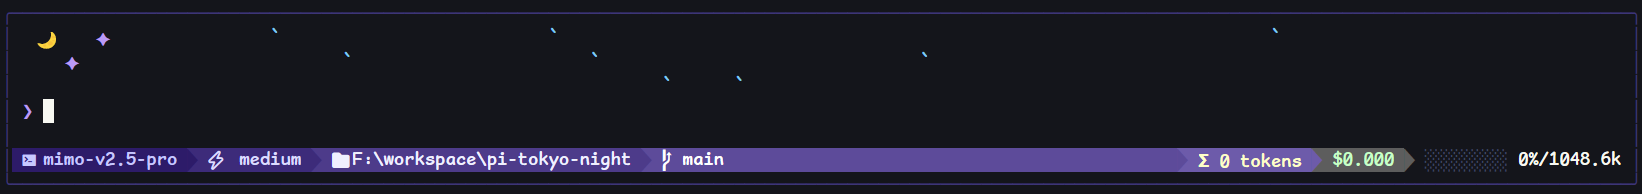
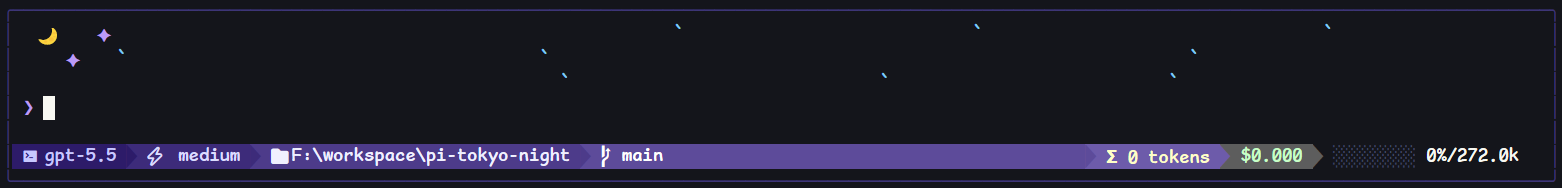
docs: update README for Codex Limit and theme config

diff --git a/README.md b/README.md
@@ -34,6 +34,8 @@ Activates automatically on install. Use `/tokyo-night` to control the extension:
 /tokyo-night          # toggle settings panel
 ```
 
+Codex usage is shown in the status bar only when `codexQuota` is enabled and the session is using a Codex-compatible model over `transport=sse`. 
+
 ### Status bar modules
 
 | Position | Module | Description |
@@ -42,6 +44,7 @@ Activates automatically on install. Use `/tokyo-night` to control the extension:
 | Left | Thinking | Thinking level (off / minimal / low / medium / high / xhigh) |
 | Left | Path | Shortened working directory |
 | Left | Branch | Current Git branch (hidden when not in a repo) |
+| Right | Codex Limit | Codex quota / reset status (SSE + Codex-compatible models only) |
 | Right | Tokens | Cumulative input + output token count |
 | Right | Cost | Session cost |
 | Right | Progress | Context window usage bar with percentage |
@@ -53,6 +56,7 @@ Open with `/tokyo-night`, then navigate with ↑/↓ and press Enter to toggle o
 | Setting | Default | Description |
 |---------|---------|-------------|
 | Top Panel | On | Show rain/moon/stars above editor |
+| Codex Limit | Off | Show Codex quota in the status bar (requires Pi transport=sse) |
 | Rain Rows | 3 | Height of rain panel (1–10) |
 | Rain Tick (ms) | 130 | Animation speed (50–1000) |
 | Max Rain Drops | 25 | Simultaneous drops (5–100) |
@@ -63,6 +67,7 @@ Settings are persisted to `~/.pi/agent/settings.json` under the `pi-tokyo-night`
 {
   "pi-tokyo-night": {
     "panel": true,
+    "codexQuota": false,
     "rainRows": 3,
     "rainTickMs": 130,
     "maxRainDrops": 25